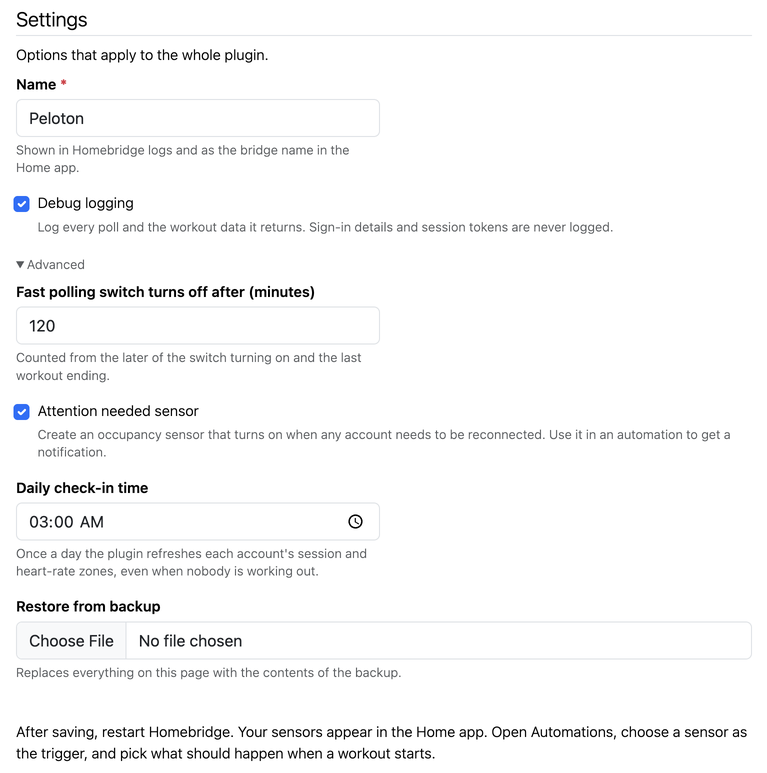
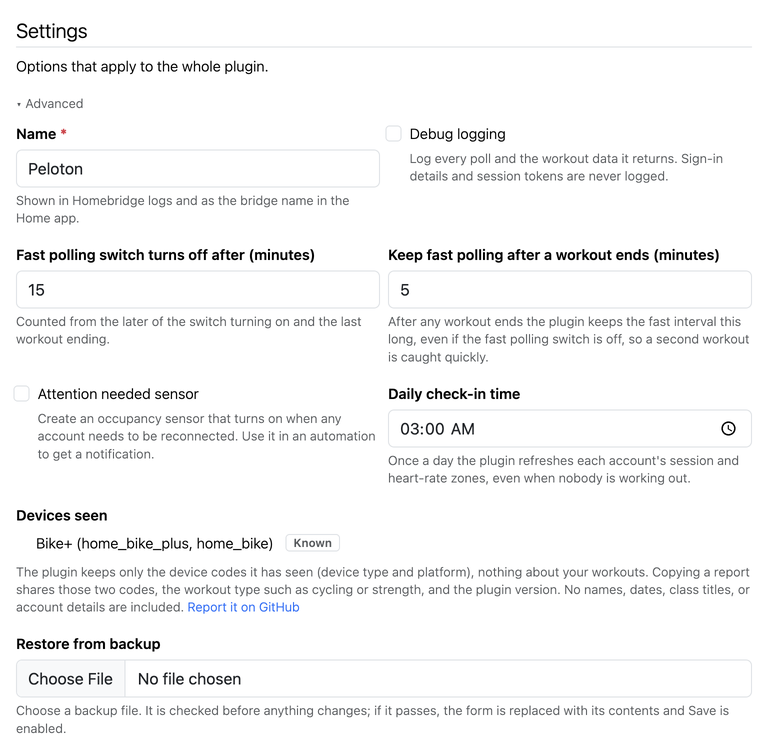
fix(ui): intro copy offers workout start and end only
The settings page intro paragraph and the config.schema.json headerDisplay
no longer say a sensor can fire when a workout reaches a heart-rate zone,
matching the README while Heart-rate zone triggers are not offered.

diff --git a/homebridge-ui/public/copy.js b/homebridge-ui/public/copy.js
@@ -36,7 +36,7 @@ export const FIELD_LABELS = {
 
 export const PAGE = {
   bannerAlt: 'Peloton. HomeKit sensors driven by Peloton workouts: workout in progress and heart-rate zones.',
-  lead1: 'Turns Peloton workouts into HomeKit sensors so automations can run when a workout starts, ends, or reaches a heart-rate zone.',
+  lead1: 'Turns Peloton workouts into HomeKit sensors so automations can run when a workout starts or ends.',
   lead2: 'Set up in two steps: connect your Peloton account, then add a trigger for what you want to automate. '
     + 'Save, restart Homebridge, and use the sensor in a HomeKit automation.',
   leadNote: 'Not affiliated with or endorsed by Peloton Interactive. Uses Peloton\'s undocumented member API, which can change without notice.',
